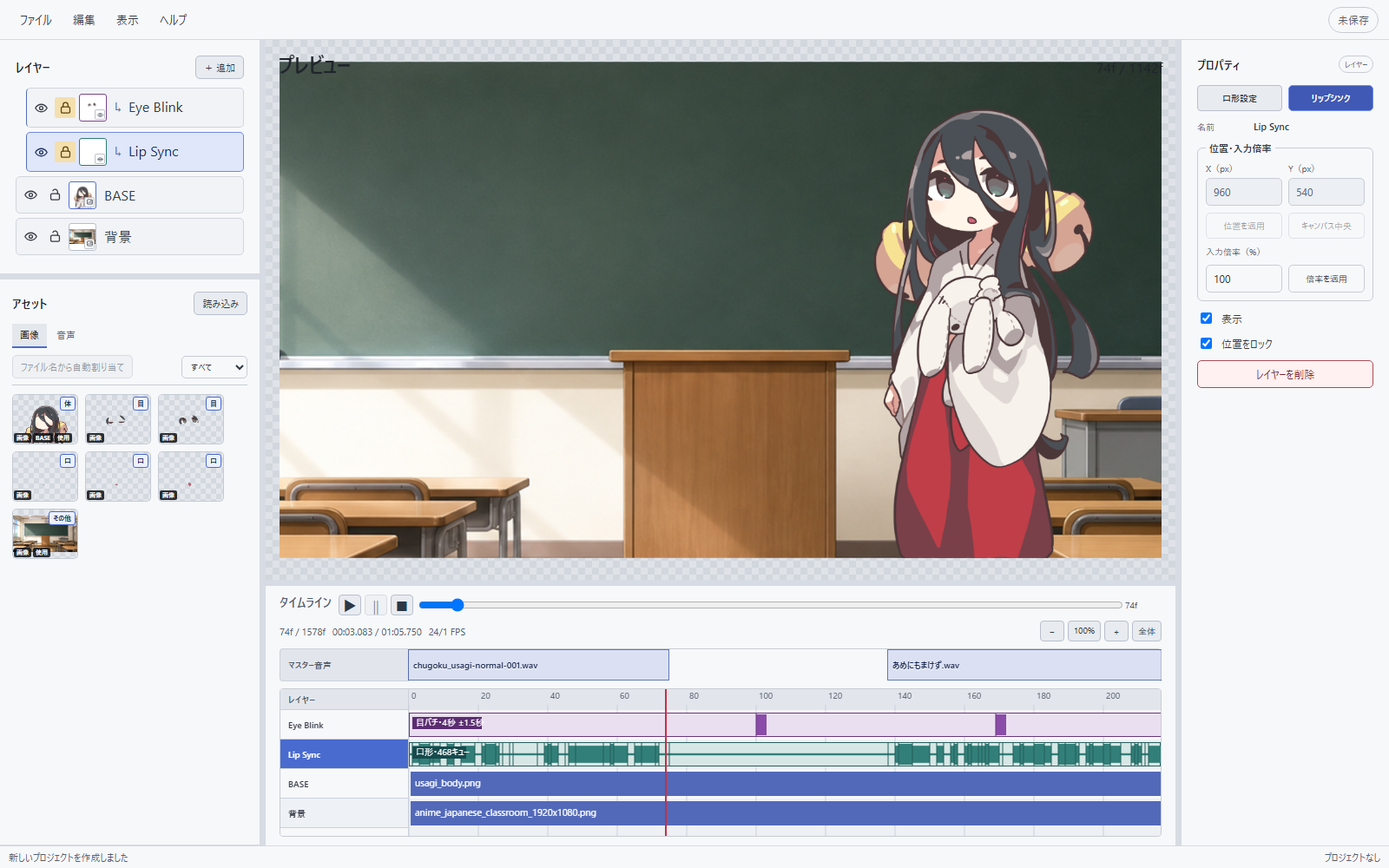
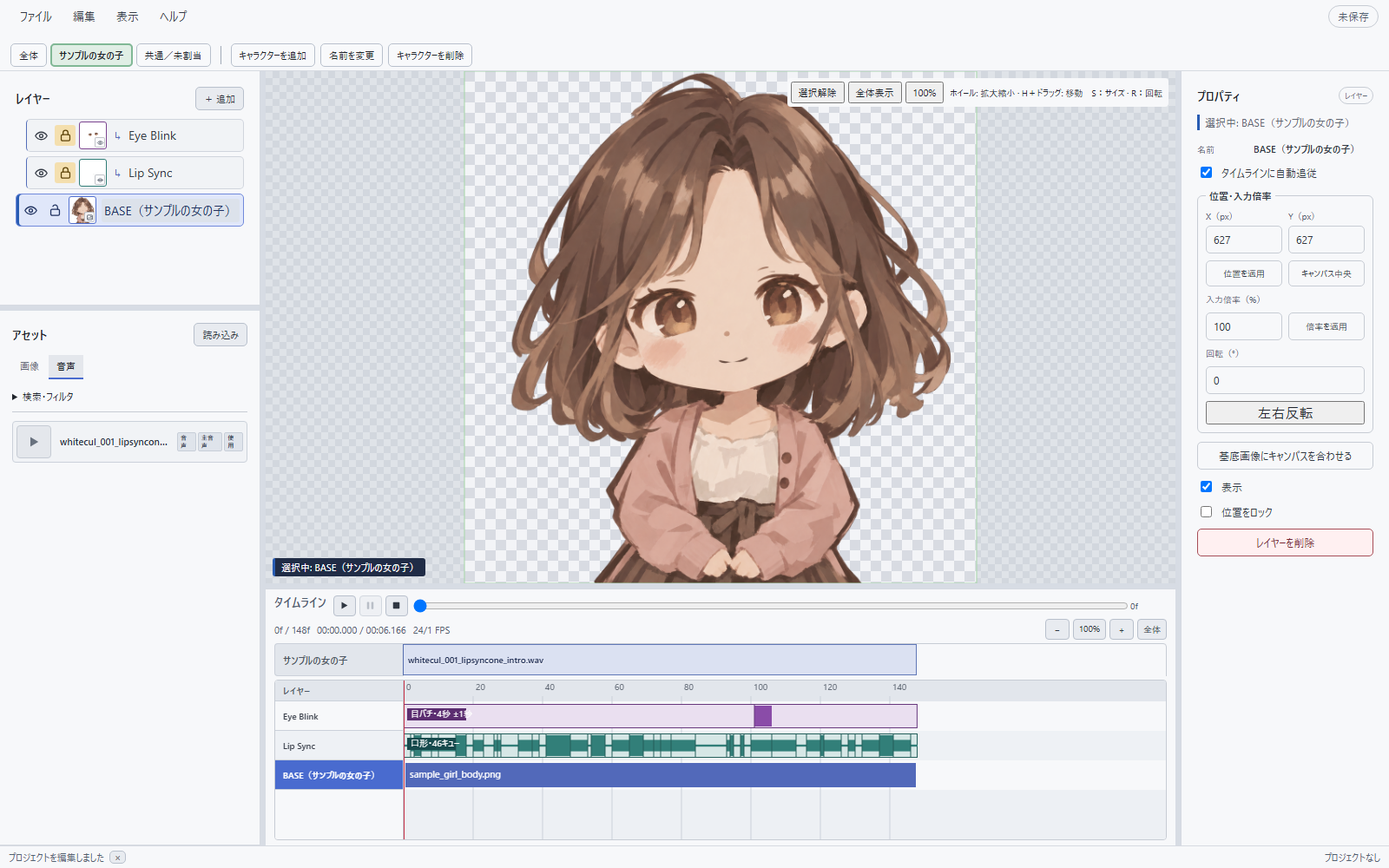
feat(site): match screenshots to the selected theme

diff --git a/site/help/index.html b/site/help/index.html
@@ -20,7 +20,7 @@
     <title>LipSyncOne 公式ヘルプ | 口形・目パチ・動画書き出し</title>
     <link rel="canonical" href="https://lipsyncone.studiojuh.com/help/">
     <link rel="stylesheet" href="../styles.css?v=20261012-help">
-    <script src="../script.js?v=20261012-help" defer></script>
+    <script src="../script.js?v=20261012-theme" defer></script>
     <script type="application/ld+json">
       {
         "@context": "https://schema.org",
@@ -171,14 +171,14 @@
 
 <p>初めて使う方は、<a href="https://lipsyncone.studiojuh.com/downloads/LipSyncOne_SampleAssets_v1.zip">無料サンプルアセット</a>を使うと、画像の準備から始めずに口パクと目パチを試せます。ZIPを展開してから、次の順に進めてください。</p>
 <ol class="procedure"><li><strong>新しいプロジェクトを作る</strong><span>HOMEで新規プロジェクトを作成します。</span></li><li><strong>画像と音声を読み込む</strong><span>imagesフォルダーのPNG 7枚と、audioフォルダーのWAVを「アセット」へ読み込みます。</span></li><li><strong>キャラクターを追加する</strong><span>「キャラクターを追加」を開き、「素材のグループ」でsample_girlを選びます。名前と画像を確認し、「適用」を押します。</span></li><li><strong>音声を配置する</strong><span>追加したキャラクターのタブを選び、アセットの「音声」からWAVをタイムラインの音声行へドラッグします。配置後に口パクの解析が始まります。</span></li><li><strong>再生して確認する</strong><span>解析が終わったらタイムラインを再生します。必要に応じて画像の位置や大きさを調整します。</span></li><li><strong>動画を書き出す</strong><span>「ファイル → 動画を書き出す」を開き、透明背景のまま「軽量WebM」などで保存します。</span></li></ol>
-<figure class="guide-shot"><a class="image-zoom-trigger" href="../assets/home-dark.png" aria-label="日本語表示のHOME画面を拡大表示"><img src="../assets/home-dark.png" width="1600" height="1000" alt="日本語表示のHOME画面" loading="lazy"></a><figcaption>HOMEから新しい制作を始めるか、保存したプロジェクトを開きます。</figcaption></figure>
+<figure class="guide-shot"><a class="image-zoom-trigger" href="../assets/home-light.png" aria-label="日本語表示のHOME画面を拡大表示"><img src="../assets/home-light.png" data-theme-light="../assets/home-light.png" data-theme-dark="../assets/home-dark.png" width="1600" height="1000" alt="日本語表示のHOME画面" loading="lazy"></a><figcaption>HOMEから新しい制作を始めるか、保存したプロジェクトを開きます。</figcaption></figure>
 <p class="note">サンプル音声はVOICEVOX:WhiteCULです。音声を使った動画を公開する際は、動画内や概要欄に「VOICEVOX:WhiteCUL」と表記してください。詳しい利用条件はZIP内のREADMEをご確認ください。</p>
 </section>
 
           <section class="guide-section searchable" id="workspace" data-search="画面 レイヤー アセット プレビュー プロパティ パネル タイムライン サイズ">
 <header class="section-heading"><p class="section-number">03</p><h2>画面の見方</h2></header>
 
-<figure class="guide-shot"><a class="image-zoom-trigger" href="../assets/editor-dark.png" aria-label="サンプル画像と音声を配置した編集画面を拡大表示"><img src="../assets/editor-dark.png" width="1600" height="1000" alt="サンプル画像と音声を配置した編集画面" loading="lazy"></a><figcaption>左側で素材とレイヤーを管理し、中央でプレビューとタイムライン、右側で選択した項目の設定を確認します。</figcaption></figure>
+<figure class="guide-shot"><a class="image-zoom-trigger" href="../assets/editor-light.png" aria-label="サンプル画像と音声を配置した編集画面を拡大表示"><img src="../assets/editor-light.png" data-theme-light="../assets/editor-light.png" data-theme-dark="../assets/editor-dark.png" width="1600" height="1000" alt="サンプル画像と音声を配置した編集画面" loading="lazy"></a><figcaption>左側で素材とレイヤーを管理し、中央でプレビューとタイムライン、右側で選択した項目の設定を確認します。</figcaption></figure>
 <dl class="definition-grid"><div><dt>レイヤー</dt><dd>画像の重なり順、表示・非表示、位置のロックを管理します。</dd></div><div><dt>アセット</dt><dd>読み込んだ画像と音声を表示します。素材を選び、目的のレイヤーや音声行へ配置します。</dd></div><div><dt>プレビュー</dt><dd>画像の重なりや口・目の動きを確認します。市松模様の部分は透明です。</dd></div><div><dt>タイムライン</dt><dd>画像と音声を表示・再生する時間を調整します。</dd></div><div><dt>プロパティ</dt><dd>選択中の画像、レイヤー、クリップの設定を編集します。</dd></div></dl>
 <p>パネルの境界をドラッグすると、表示領域の広さを変えられます。タイムラインを広げてプレビューを小さくすることもできます。元に戻す場合は「表示 → パネル配置を初期化」を選びます。</p>
 </section>
@@ -208,7 +208,7 @@
           <section class="guide-section searchable" id="characters" data-search="複数 キャラクター 話者 タブ 共通 未割当 追加 素材 グループ 録音">
 <header class="section-heading"><p class="section-number">05</p><h2>キャラクターを追加する</h2></header>
 
-<figure class="guide-shot"><a class="image-zoom-trigger" href="../assets/character-add-dark.png" aria-label="素材を選んでキャラクターを追加する画面を拡大表示"><img src="../assets/character-add-dark.png" width="1600" height="1000" alt="素材を選んでキャラクターを追加する画面" loading="lazy"></a><figcaption>名前と素材グループを選び、本体・口・目の画像をまとめて設定します。</figcaption></figure>
+<figure class="guide-shot"><a class="image-zoom-trigger" href="../assets/character-add-light.png" aria-label="素材を選んでキャラクターを追加する画面を拡大表示"><img src="../assets/character-add-light.png" data-theme-light="../assets/character-add-light.png" data-theme-dark="../assets/character-add-dark.png" width="1600" height="1000" alt="素材を選んでキャラクターを追加する画面" loading="lazy"></a><figcaption>名前と素材グループを選び、本体・口・目の画像をまとめて設定します。</figcaption></figure>
 <ol class="procedure compact-procedure"><li><strong>画像を読み込む</strong><span>本体と、口・目の差分画像をアセットに追加します。</span></li><li><strong>素材のグループを選ぶ</strong><span>「キャラクターを追加」を開き、画像の名前に対応するグループを選びます。</span></li><li><strong>名前と画像を確認する</strong><span>名前は自由に変更できます。使う画像を確認して「適用」を押します。</span></li><li><strong>音声を配置する</strong><span>そのキャラクターのタブを選び、対応する音声を配置します。</span></li></ol>
 <p>複数人が話す動画では、話者ごとにキャラクターと音声を用意します。異なる音声行は同時に再生できます。同じ音声行ではクリップを重ねられません。</p><p>「全体」タブでは全員の配置をまとめて確認できます。「共通／未割当」は、特定のキャラクターに属さない背景や小物などに使います。タブを切り替えても、他のキャラクターが自動で非表示や消音になることはありません。</p>
 <p>同名のレイヤーは「BASE（キャラクター名）」のように区別して表示します。音声の所属を変える場合は、現在の配置を削除し、目的のキャラクターの音声行へ配置し直します。元の音声アセットは残ります。</p><p>録音は「編集 → 録音…」から始められます。録音した音声を素材として保存してから、目的の音声行へ配置してください。</p>
@@ -217,7 +217,7 @@
           <section class="guide-section searchable" id="mouth-setup" data-search="口形 画像 閉口 中口 大口 2枚 3枚 9口形 A B C D E F G H X anchor 基準点 透明余白">
             <header class="section-heading"><p class="section-number">06</p><h2>口形画像を設定する</h2><p>キャラクターのタブを選び、レイヤー欄の「＋追加 → 口・リップシンク」を開きます。設定済みの口レイヤーを選び、プロパティから開くこともできます。</p></header>
             <figure class="guide-shot">
-              <a class="image-zoom-trigger" href="../assets/mouth-setup-dark.png" aria-label="口形設定画面を拡大表示"><img src="../assets/mouth-setup-dark.png" alt="閉口・中口・大口を設定する口・リップシンクレイヤー追加画面"></a>
+              <a class="image-zoom-trigger" href="../assets/mouth-setup-light.png" aria-label="口形設定画面を拡大表示"><img src="../assets/mouth-setup-light.png" data-theme-light="../assets/mouth-setup-light.png" data-theme-dark="../assets/mouth-setup-dark.png" alt="閉口・中口・大口を設定する口・リップシンクレイヤー追加画面"></a>
               <figcaption>かんたん3枚では、閉じた口・中くらいの口・大きく開いた口を選びます。</figcaption>
             </figure>
             <table class="help-table">
@@ -252,7 +252,7 @@
 <header class="section-heading"><p class="section-number">07</p><h2>口パクを解析・調整する</h2></header>
 
 <p>口形画像を設定したキャラクターの音声行へ音声を配置すると、自動解析が始まります。解析が終わると、声に合わせて口形が切り替わるようになります。</p>
-<figure class="guide-shot"><a class="image-zoom-trigger" href="../assets/lip-sync-analysis-dark.png" aria-label="音量の影響度と無音しきい値を調整するリップシンク解析画面を拡大表示"><img src="../assets/lip-sync-analysis-dark.png" width="1600" height="1000" alt="音量の影響度と無音しきい値を調整するリップシンク解析画面" loading="lazy"></a><figcaption>手動解析では、対象の音声と音量補正を確認してから解析します。</figcaption></figure>
+<figure class="guide-shot"><a class="image-zoom-trigger" href="../assets/lip-sync-analysis-light.png" aria-label="音量の影響度と無音しきい値を調整するリップシンク解析画面を拡大表示"><img src="../assets/lip-sync-analysis-light.png" data-theme-light="../assets/lip-sync-analysis-light.png" data-theme-dark="../assets/lip-sync-analysis-dark.png" width="1600" height="1000" alt="音量の影響度と無音しきい値を調整するリップシンク解析画面" loading="lazy"></a><figcaption>手動解析では、対象の音声と音量補正を確認してから解析します。</figcaption></figure>
 <h3>あとから調整する</h3><ol class="procedure compact-procedure"><li><strong>口レイヤーを選ぶ</strong><span>対象キャラクターの口レイヤーを選択します。</span></li><li><strong>解析画面を開く</strong><span>プロパティの「リップシンク」を押します。</span></li><li><strong>補正を調整する</strong><span>「音量の影響度」の初期値は25％、「無音しきい値」は−42 dBです。小さい声で口が開きすぎる場合は、影響度やしきい値を少し上げて試します。</span></li><li><strong>解析して適用する</strong><span>「マスター音声を解析」を押します。解析が終わると、結果がタイムラインに反映されます。</span></li></ol>
 <p>自動解析中は進捗が表示され、キャンセルできます。解析に失敗しても音声の配置は残るので、設定を確認して再解析してください。</p><p>解析エンジンのRhubarbと必要なデータはアプリに同梱しています。解析のために音声を外部へ送信しません。</p>
 </section>
@@ -267,7 +267,7 @@
           <section class="guide-section searchable" id="timeline" data-search="タイムライン 位置 入力倍率 回転 左右反転 S R ホイール 整数 長さ 自動 縮小 プレビュー 音声">
 <header class="section-heading"><p class="section-number">09</p><h2>タイムラインと画像の位置を調整する</h2></header>
 
-<figure class="guide-shot"><a class="image-zoom-trigger" href="../assets/timeline-dark.png" aria-label="音声と画像の配置を確認するタイムラインを拡大表示"><img src="../assets/timeline-dark.png" width="1600" height="1000" alt="音声と画像の配置を確認するタイムライン" loading="lazy"></a><figcaption>音声に合わせてタイムラインの長さが変わります。画像の表示時間や各レイヤーの重なりも確認できます。</figcaption></figure>
+<figure class="guide-shot"><a class="image-zoom-trigger" href="../assets/timeline-light.png" aria-label="音声と画像の配置を確認するタイムラインを拡大表示"><img src="../assets/timeline-light.png" data-theme-light="../assets/timeline-light.png" data-theme-dark="../assets/timeline-dark.png" width="1600" height="1000" alt="音声と画像の配置を確認するタイムライン" loading="lazy"></a><figcaption>音声に合わせてタイムラインの長さが変わります。画像の表示時間や各レイヤーの重なりも確認できます。</figcaption></figure>
 <p>音声を配置・移動・削除すると、タイムラインの長さが音声の終わりに合わせて伸び縮みします。手動で配置した画像などが後ろにある場合は、その表示範囲も残ります。</p>
 <h3>位置・大きさ・回転</h3><p>画像またはレイヤーを選ぶと、プロパティに位置・入力倍率・回転が表示されます。数値を入力すると、入力が止まってから少し待ってプレビューに反映されます。Enterを押すとすぐに確定します。</p><p>位置は1px、倍率は1％、回転は1度刻みで入力できます。数値欄にマウスを置いてホイールを動かすと、1ずつ変更できます。「左右反転」で画像を反転できます。</p>
 <table class="help-table"><thead><tr><th>操作</th><th>方法</th></tr></thead><tbody><tr><th>マウスで拡大・縮小</th><td>プレビューで画像を選び、マウスをプレビュー上に置いてSを押してから動かします。</td></tr><tr><th>マウスで回転</th><td>画像を選び、Rを押してからマウスを動かします。</td></tr><tr><th>変形を確定・取り消す</th><td>クリックまたはEnterで確定。右クリックまたはEscで取り消します。</td></tr><tr><th>プレビューを拡大・縮小</th><td>プレビュー上でホイールを動かします。「全体表示」で画像全体が収まります。</td></tr><tr><th>プレビューの表示位置を動かす</th><td>Hを押しながらドラッグします。</td></tr><tr><th>表示・非表示</th><td>レイヤーの目アイコンで切り替えます。</td></tr><tr><th>名前・重なり順</th><td>レイヤー名のダブルクリックで名前を変更。行を上下へドラッグして順番を変えます。</td></tr><tr><th>音量</th><td>音声クリップを選び、プロパティのゲインを調整します。</td></tr></tbody></table>
@@ -283,7 +283,7 @@
           <section class="guide-section searchable" id="export" data-search="動画 書き出し 透明 アルファ Premiere Pro ProRes FFV1 軽量 WebM MP4 背景 解像度">
 <header class="section-heading"><p class="section-number">11</p><h2>透明動画を書き出す</h2></header>
 
-<p>「ファイル → 動画を書き出す」、またはCtrl＋Eで書き出し画面を開きます。初期設定は「軽量WebM」、背景は「透明（アルファ）」です。</p><figure class="guide-shot"><a class="image-zoom-trigger" href="../assets/export-dark.png" aria-label="透明背景の軽量WebMを書き出す設定画面を拡大表示"><img src="../assets/export-dark.png" width="1600" height="1000" alt="透明背景の軽量WebMを書き出す設定画面" loading="lazy"></a><figcaption>用途、背景、出力サイズ、範囲を確認します。中央の代表フレームで見た目を確認してから書き出してください。</figcaption></figure>
+<p>「ファイル → 動画を書き出す」、またはCtrl＋Eで書き出し画面を開きます。初期設定は「軽量WebM」、背景は「透明（アルファ）」です。</p><figure class="guide-shot"><a class="image-zoom-trigger" href="../assets/export-light.png" aria-label="透明背景の軽量WebMを書き出す設定画面を拡大表示"><img src="../assets/export-light.png" data-theme-light="../assets/export-light.png" data-theme-dark="../assets/export-dark.png" width="1600" height="1000" alt="透明背景の軽量WebMを書き出す設定画面" loading="lazy"></a><figcaption>用途、背景、出力サイズ、範囲を確認します。中央の代表フレームで見た目を確認してから書き出してください。</figcaption></figure>
 <table class="help-table"><thead><tr><th>用途</th><th>形式</th><th>使い分け</th></tr></thead><tbody><tr><th>Adobe Premiere Pro</th><td>ProRes 4444 Alpha / MOV</td><td>動画編集ソフトへ渡す編集用素材</td></tr><tr><th>可逆アルファマスター</th><td>FFV1 / MKV</td><td>劣化を抑えて保管するマスター素材</td></tr><tr><th>軽量WebM</th><td>VP9 Alpha / WebM</td><td>透明度を保ちながら容量を抑える</td></tr><tr><th>互換MP4・カラーキー</th><td>H.264 / MP4</td><td>背景色を付けた確認用動画。透明度は保持しません。</td></tr></tbody></table>
 <p>仕上げ先の動画編集ソフトが、選んだ形式の透明度に対応しているか確認してください。アルファ付き素材をWindows標準のプレイヤーで再生できない場合でも、編集ソフトでは読み込めることがあります。</p>
 </section>

diff --git a/site/index.html b/site/index.html
@@ -21,7 +21,7 @@
     <link rel="canonical" href="https://lipsyncone.studiojuh.com/">
     <link rel="stylesheet" href="./styles.css">
     <link rel="stylesheet" href="./lp/styles.css?v=20261012-1">
-    <script src="./script.js" defer></script>
+    <script src="./script.js?v=20261012-theme" defer></script>
     <script type="application/ld+json">
       {
         "@context": "https://schema.org",
@@ -146,7 +146,7 @@
             <p class="hero-meta">Windows 11 x64 ／ v0.2.1 ／ 音声はPC内で解析</p>
           </div>
           <figure class="product-shot hero-shot">
-            <img src="./assets/editor-dark.png" width="1600" height="1000" fetchpriority="high" alt="サンプルの女の子に口パク・目パチと音声を配置したLipSyncOneの編集画面">
+            <img src="./assets/editor-light.png" data-theme-light="./assets/editor-light.png" data-theme-dark="./assets/editor-dark.png" width="1600" height="1000" fetchpriority="high" alt="サンプルの女の子に口パク・目パチと音声を配置したLipSyncOneの編集画面">
             <figcaption>画像・口パク・目パチ・音声を、ひとつの画面で確認</figcaption>
           </figure>
         </div>
@@ -192,19 +192,19 @@
           <div class="workflow-list">
             <article class="workflow-item">
               <div class="workflow-copy"><span>01</span><h3>画像と音声を読み込む</h3><p>HOMEで新規プロジェクトを作り、アセットへ画像と音声を読み込みます。まずは無料サンプルのPNG 7枚とWAVで試せます。</p></div>
-              <figure class="product-shot"><div class="workflow-shot"><img src="./assets/home-dark.png" width="1600" height="1000" loading="lazy" decoding="async" alt="新規プロジェクトを作成できるLipSyncOneのHOME画面"></div><figcaption>HOMEから新規作成、または保存済みプロジェクトを開く</figcaption></figure>
+              <figure class="product-shot"><div class="workflow-shot"><img src="./assets/home-light.png" data-theme-light="./assets/home-light.png" data-theme-dark="./assets/home-dark.png" width="1600" height="1000" loading="lazy" decoding="async" alt="新規プロジェクトを作成できるLipSyncOneのHOME画面"></div><figcaption>HOMEから新規作成、または保存済みプロジェクトを開く</figcaption></figure>
             </article>
             <article class="workflow-item reverse">
               <div class="workflow-copy"><span>02</span><h3>キャラクターを追加する</h3><p>「キャラクターを追加」で素材のグループを選ぶと、本体・口・目の画像をまとめて設定できます。画像と名前を確認して「適用」を押します。</p></div>
-              <figure class="product-shot"><div class="workflow-shot"><img src="./assets/character-add-dark.png" width="1600" height="1000" loading="lazy" decoding="async" alt="本体と口・目の画像をまとめて設定するキャラクター追加画面"></div><figcaption>名前が揃った素材を、本体・口・目へまとめて割り当て</figcaption></figure>
+              <figure class="product-shot"><div class="workflow-shot"><img src="./assets/character-add-light.png" data-theme-light="./assets/character-add-light.png" data-theme-dark="./assets/character-add-dark.png" width="1600" height="1000" loading="lazy" decoding="async" alt="本体と口・目の画像をまとめて設定するキャラクター追加画面"></div><figcaption>名前が揃った素材を、本体・口・目へまとめて割り当て</figcaption></figure>
             </article>
             <article class="workflow-item">
               <div class="workflow-copy"><span>03</span><h3>音声を配置して、口パクを作る</h3><p>キャラクターの音声行へWAVを配置すると、口パクの自動解析が始まります。あとから音量の影響度や無音しきい値を調整して、解析し直すこともできます。</p></div>
-              <figure class="product-shot"><div class="workflow-shot"><img src="./assets/lip-sync-analysis-dark.png" width="1600" height="1000" loading="lazy" decoding="async" alt="音量補正を調整できるLipSyncOneのリップシンク解析画面"></div><figcaption>解析画面では音量補正を調整できます。影響度の初期値は25％</figcaption></figure>
+              <figure class="product-shot"><div class="workflow-shot"><img src="./assets/lip-sync-analysis-light.png" data-theme-light="./assets/lip-sync-analysis-light.png" data-theme-dark="./assets/lip-sync-analysis-dark.png" width="1600" height="1000" loading="lazy" decoding="async" alt="音量補正を調整できるLipSyncOneのリップシンク解析画面"></div><figcaption>解析画面では音量補正を調整できます。影響度の初期値は25％</figcaption></figure>
             </article>
             <article class="workflow-item reverse">
               <div class="workflow-copy"><span>04</span><h3>透明動画を書き出す</h3><p>最初は透明背景の「軽量WebM」が選ばれています。仕上げに使うソフトに合わせて形式を選び、表示範囲とサイズを確認して保存します。</p></div>
-              <figure class="product-shot"><div class="workflow-shot"><img src="./assets/export-dark.png" width="1600" height="1000" loading="lazy" decoding="async" alt="用途と代表フレームを確認できるLipSyncOneの動画書き出し画面"></div><figcaption>Premiere Pro向け、可逆マスター、軽量WebMから選択</figcaption></figure>
+              <figure class="product-shot"><div class="workflow-shot"><img src="./assets/export-light.png" data-theme-light="./assets/export-light.png" data-theme-dark="./assets/export-dark.png" width="1600" height="1000" loading="lazy" decoding="async" alt="用途と代表フレームを確認できるLipSyncOneの動画書き出し画面"></div><figcaption>Premiere Pro向け、可逆マスター、軽量WebMから選択</figcaption></figure>
             </article>
           </div>
           <p class="section-link"><a href="./help/#quick-start">詳しい操作手順をヘルプで見る →</a></p>

diff --git a/site/script.js b/site/script.js
@@ -11,6 +11,13 @@ if (savedTheme === "dark" || savedTheme === "light") {
 }
 
 function updateThemeButton() {
+  const theme = root.dataset.theme === "dark" ? "dark" : "light";
+  for (const image of document.querySelectorAll("img[data-theme-light][data-theme-dark]")) {
+    const source = image.dataset[theme === "dark" ? "themeDark" : "themeLight"];
+    image.setAttribute("src", source);
+    const trigger = image.closest("a.image-zoom-trigger");
+    if (trigger) trigger.setAttribute("href", source);
+  }
   if (!themeButton) return;
   const dark = root.dataset.theme === "dark";
   themeButton.textContent = dark ? "ライト表示" : "ダーク表示";
